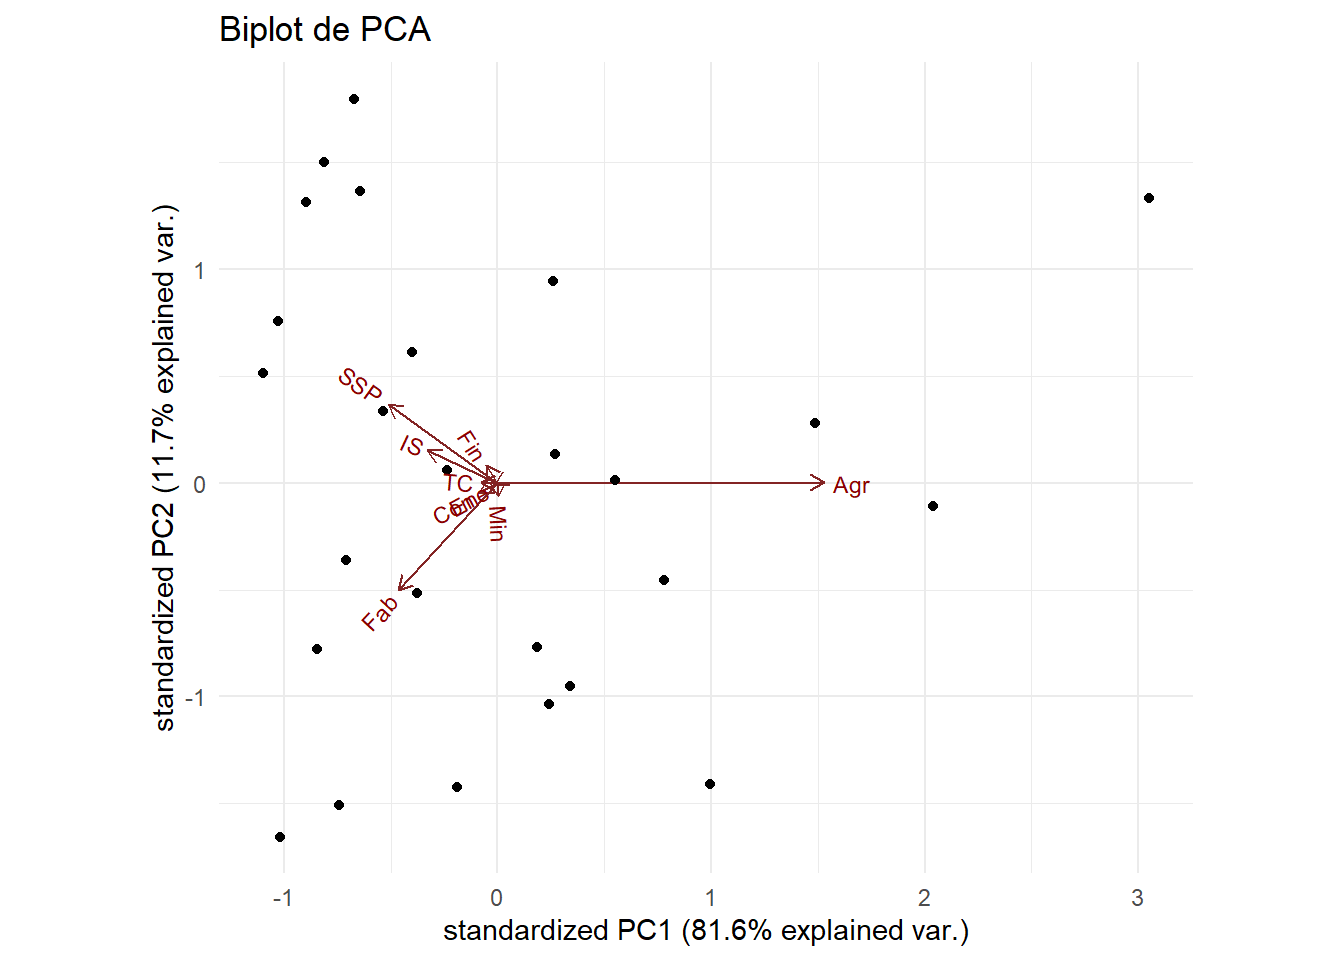
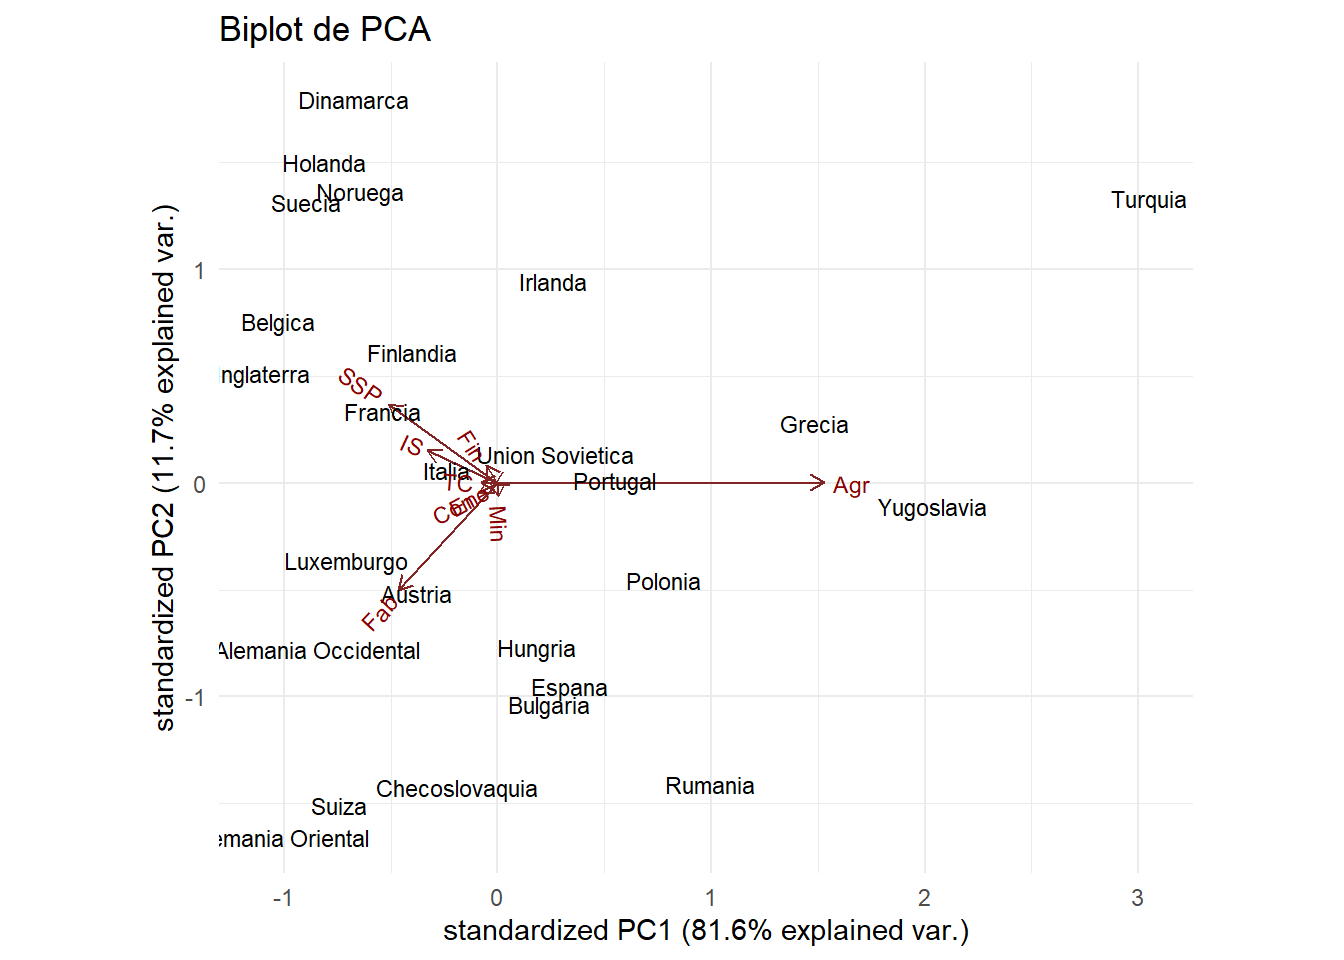
Cambios post historia

diff --git a/entrega5.html b/entrega5.html
@@ -405,16 +405,63 @@ princomp(x = europa_sin_tur_yug[, 1:9], cor = FALSE)
 
 Standard deviations:
      Comp.1      Comp.2      Comp.3      Comp.4      Comp.5      Comp.6 
-11.99215911  6.23949949  3.72044014  1.82762070  1.15104298  0.80921073 
+10.74681779  6.08841336  3.64871212  1.85565439  1.17576627  0.78406429 
      Comp.7      Comp.8      Comp.9 
- 0.66083404  0.24926119  0.03866755 
+ 0.63400877  0.23901080  0.03827316 
 
- 9  variables and  24 observations.</code></pre>
+ 9  variables and  23 observations.</code></pre>
 </div>
 </div>
 <div class="cell">
-<div class="cell-output-display">
-<p><img src="entrega5_files/figure-html/unnamed-chunk-28-1.png" class="img-fluid" width="672"></p>
+<div class="cell-output cell-output-stdout">
+<pre><code>                                   Pais  Agr Min  Fab Ene  Con   IS Fin  SSP
+Belgica                         Belgica  3.3 0.9 27.6 0.9  8.2 19.1 6.2 26.6
+Dinamarca                     Dinamarca  9.2 0.1 21.8 0.6  8.3 14.6 6.5 32.2
+Francia                         Francia 10.8 0.8 27.5 0.9  8.9 16.8 6.0 22.6
+Alemania Occidental Alemania Occidental  6.7 1.3 35.8 0.9  7.3 14.4 5.0 22.3
+Irlanda                         Irlanda 23.2 1.0 20.7 1.3  7.5 16.8 2.8 20.8
+Italia                           Italia 15.9 0.6 27.6 0.5 10.0 18.1 1.6 20.1
+Luxemburgo                   Luxemburgo  7.7 3.1 30.8 0.8  9.2 18.5 4.6 19.2
+Holanda                         Holanda  6.3 0.1 22.5 1.0  9.9 18.0 6.8 28.5
+Inglaterra                   Inglaterra  2.7 1.4 30.2 1.4  6.9 16.9 5.7 28.3
+Austria                         Austria 12.7 1.1 30.2 1.4  9.0 16.8 4.9 16.8
+Finlandia                     Finlandia 13.0 0.4 25.9 1.3  7.4 14.7 5.5 24.3
+Noruega                         Noruega  9.0 0.5 22.4 0.8  8.6 16.9 4.7 27.6
+Portugal                       Portugal 27.8 0.3 24.5 0.6  8.4 13.3 2.7 16.7
+Espana                           Espana 22.9 0.8 28.5 0.7 11.5  9.7 8.5 11.8
+Suecia                           Suecia  6.1 0.4 25.9 0.8  7.2 14.4 6.0 32.4
+Suiza                             Suiza  7.7 0.2 37.8 0.8  9.5 17.5 5.3 15.4
+Bulgaria                       Bulgaria 23.6 1.9 32.3 0.6  7.9  8.0 0.7 18.2
+Checoslovaquia           Checoslovaquia 16.5 2.9 35.5 1.2  8.7  9.2 0.9 17.9
+Alemania Oriental     Alemania Oriental  4.2 2.9 41.2 1.3  7.6 11.2 1.2 22.1
+Hungria                         Hungria 21.7 3.1 29.6 1.9  8.2  9.4 0.9 17.2
+Polonia                         Polonia 31.1 2.5 25.7 0.9  8.4  7.5 0.9 16.1
+Rumania                         Rumania 34.7 2.1 30.1 0.6  8.7  5.9 1.3 11.7
+Union Sovietica         Union Sovietica 23.7 1.4 25.8 0.6  9.2  6.1 0.5 23.6
+                     TC
+Belgica             7.2
+Dinamarca           7.1
+Francia             5.7
+Alemania Occidental 6.1
+Irlanda             6.1
+Italia              5.7
+Luxemburgo          6.2
+Holanda             6.8
+Inglaterra          6.4
+Austria             7.0
+Finlandia           7.6
+Noruega             9.4
+Portugal            5.7
+Espana              5.5
+Suecia              6.8
+Suiza               5.7
+Bulgaria            6.7
+Checoslovaquia      7.0
+Alemania Oriental   8.4
+Hungria             8.0
+Polonia             6.9
+Rumania             5.0
+Union Sovietica     9.3</code></pre>
 </div>
 </div>
 <div class="cell">
@@ -423,19 +470,24 @@ Standard deviations:
 </div>
 </div>
 <div class="cell">
+<div class="cell-output-display">
+<p><img src="entrega5_files/figure-html/unnamed-chunk-30-1.png" class="img-fluid" width="672"></p>
+</div>
+</div>
+<div class="cell">
 <div class="cell-output cell-output-stdout">
 <pre><code>
 Loadings:
     Comp.1 Comp.2 Comp.3 Comp.4 Comp.5 Comp.6 Comp.7 Comp.8 Comp.9
-Agr  0.871  0.152                0.278                       0.331
-Min                       0.135 -0.248 -0.305 -0.780  0.311  0.324
-Fab -0.136 -0.831  0.159         0.330         0.162         0.334
-Ene                                    -0.248        -0.896  0.349
-Con               -0.115 -0.237 -0.381  0.810 -0.136         0.326
-IS  -0.238  0.193 -0.690  0.511  0.192                0.109  0.332
-Fin -0.112  0.112 -0.281 -0.794  0.215 -0.282         0.153  0.338
-SSP -0.390  0.475  0.605         0.334  0.162                0.327
-TC                 0.164        -0.637 -0.271  0.567  0.215  0.339
+Agr  0.848  0.258         0.104  0.278                       0.329
+Min                       0.135 -0.248 -0.500 -0.682  0.291  0.322
+Fab        -0.826  0.232         0.330  0.138  0.114         0.333
+Ene                                    -0.291        -0.881  0.360
+Con               -0.141 -0.216 -0.384  0.738 -0.348 -0.100  0.332
+IS  -0.298        -0.676  0.524  0.191                0.123  0.329
+Fin -0.135        -0.290 -0.795  0.216 -0.242  0.116  0.170  0.334
+SSP -0.414  0.476  0.586         0.334  0.167                0.327
+TC                 0.181        -0.635         0.607  0.260  0.331
 
                Comp.1 Comp.2 Comp.3 Comp.4 Comp.5 Comp.6 Comp.7 Comp.8 Comp.9
 SS loadings     1.000  1.000  1.000  1.000  1.000  1.000  1.000  1.000  1.000
